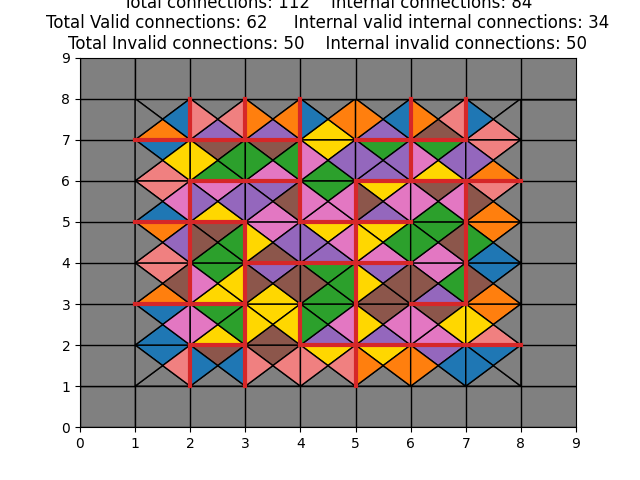
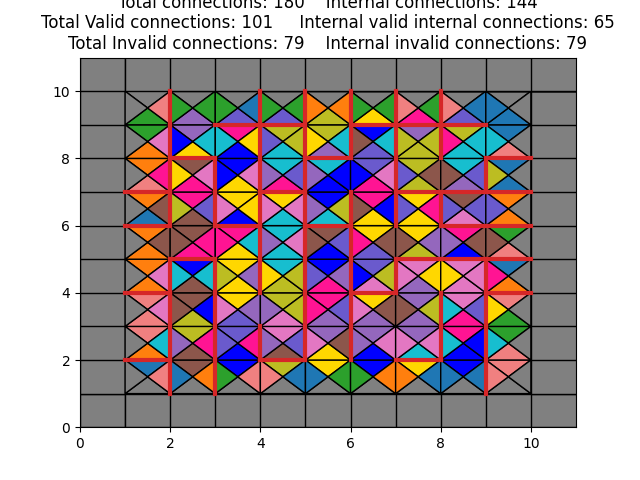
Adding way to destroy and build a solution

diff --git a/Projet/code/solver_lns.py b/Projet/code/solver_lns.py
@@ -39,13 +39,17 @@ def solve_lns(e: EternityPuzzle):
     )
 
     print("Border final cost : {}".format(nb_conflict))
+    
+    initial_solution = generate_random_solution(e)
     visualize(e, initial_solution, "debogging_border")
 
+    
 
     return lns(e, initial_solution, search_time=1*60)
 
 def lns(e: EternityPuzzle, solution, search_time=30):
 
+    visualize(e, solution, "debug/before_destruction")
     start_time = time.time()
     tic = start_time
     best_solution = deepcopy(solution)
@@ -55,7 +59,7 @@ def lns(e: EternityPuzzle, solution, search_time=30):
 
         while True:
 
-            new_solution = rebuild(*destroy(e, solution))
+            new_solution = rebuild(*destroy(e, solution, neighborhood_size=4, debug_visualization=True))
 
             if (nb_confllict_new_sol := e.get_total_n_conflict(new_solution)) < e.get_total_n_conflict(solution):
                 solution = new_solution
@@ -63,8 +67,6 @@ def lns(e: EternityPuzzle, solution, search_time=30):
                 if nb_confllict_new_sol < n_conflit_best_solution:
                     best_solution = deepcopy(new_solution)
                     n_conflit_best_solution = nb_confllict_new_sol
-
-            time.sleep(1)
 
             if (tac := time.time()) - start_time < search_time:
                 progress_bar.update(tac - tic)
@@ -75,28 +77,38 @@ def lns(e: EternityPuzzle, solution, search_time=30):
     return best_solution, n_conflit_best_solution
 
 
-def destroy(e: EternityPuzzle, solution, neighborhood_size=4):
-    visualize(e, solution, "debug/before_destruction")
+def destroy(e: EternityPuzzle, solution, neighborhood_size=4, debug_visualization=False):
 
     solution = deepcopy(solution) # To make sure we are not affecting the input solution
 
     # Remove k pieces with the most conflict
     conflict_position, nb_conflict = get_conflict_positions(e, solution, return_nb_conflict=True)
     pieces_with_most_conflict = sorted([(idx, nb_conflict[idx]) for idx in nb_conflict.keys()], key= lambda x: -x[1])
-    removed_pieces_idx = [pieces_with_most_conflict.pop(0)[0] for _ in range(neighborhood_size)]
-    
+
+    # p = np.array([for ])
+
+    removed_pieces_idx = []
+    while len(removed_pieces_idx) != neighborhood_size and len(pieces_with_most_conflict) != 0:
+        piece_loc_idx = pieces_with_most_conflict.pop(0)[0]
+        if piece_type(solution[piece_loc_idx]) == INNER:
+            removed_pieces_idx.append(piece_loc_idx)
+        if np.random.uniform(0.0, 1.0) < 0.25:
+            pieces_with_most_conflict.pop(0)
+        
+
     removed_pieces = []
     for idx in removed_pieces_idx:
         removed_pieces.append(solution[idx])
         solution[idx] = (BLACK, BLACK, BLACK, BLACK)
 
-    return e, solution, removed_pieces, removed_pieces_idx
+    return e, solution, removed_pieces, removed_pieces_idx, debug_visualization
 
 
 
-def rebuild(e: EternityPuzzle, destroyed_solution, removed_pieces, removed_pieces_idx):
+def rebuild(e: EternityPuzzle, destroyed_solution, removed_pieces, removed_pieces_idx, debug_visualization=False):
     # Realidxated removed pieces optimally to the holes
-    visualize(e, destroyed_solution, "debug/rebuilding")
+    if debug_visualization:
+        visualize(e, destroyed_solution, "debug/rebuilding")
 
     for _ in range(len(removed_pieces_idx)):
 
@@ -114,7 +126,9 @@ def rebuild(e: EternityPuzzle, destroyed_solution, removed_pieces, removed_piece
 
         # Fill the hole
         destroyed_solution[idx_to_fill] = piece_to_fill_hole
-    visualize(e, destroyed_solution, "debug/rebuild")
+
+    if debug_visualization:
+        visualize(e, destroyed_solution, "debug/rebuild")
 
     return destroyed_solution
 

diff --git a/Projet/code/utils/utils.py b/Projet/code/utils/utils.py
@@ -13,7 +13,9 @@ NORTH = 0
 SOUTH = 1
 WEST = 2
 EAST = 3
-
+CORNER = "corner"
+EDGE = "edge"
+INNER = "inner"
 
 # Save a visualisation
 def visualize(e: EternityPuzzle, solution, name="visualisation"):
@@ -23,7 +25,7 @@ def visualize(e: EternityPuzzle, solution, name="visualisation"):
 
 def piece_type(piece):
     count_gray = piece.count(GRAY)
-    return "corner" if count_gray == 2 else "edge" if count_gray == 1 else "inner"
+    return CORNER if count_gray == 2 else EDGE if count_gray == 1 else INNER
 
 
 # Return a list of the positions of the pieces in conflict
